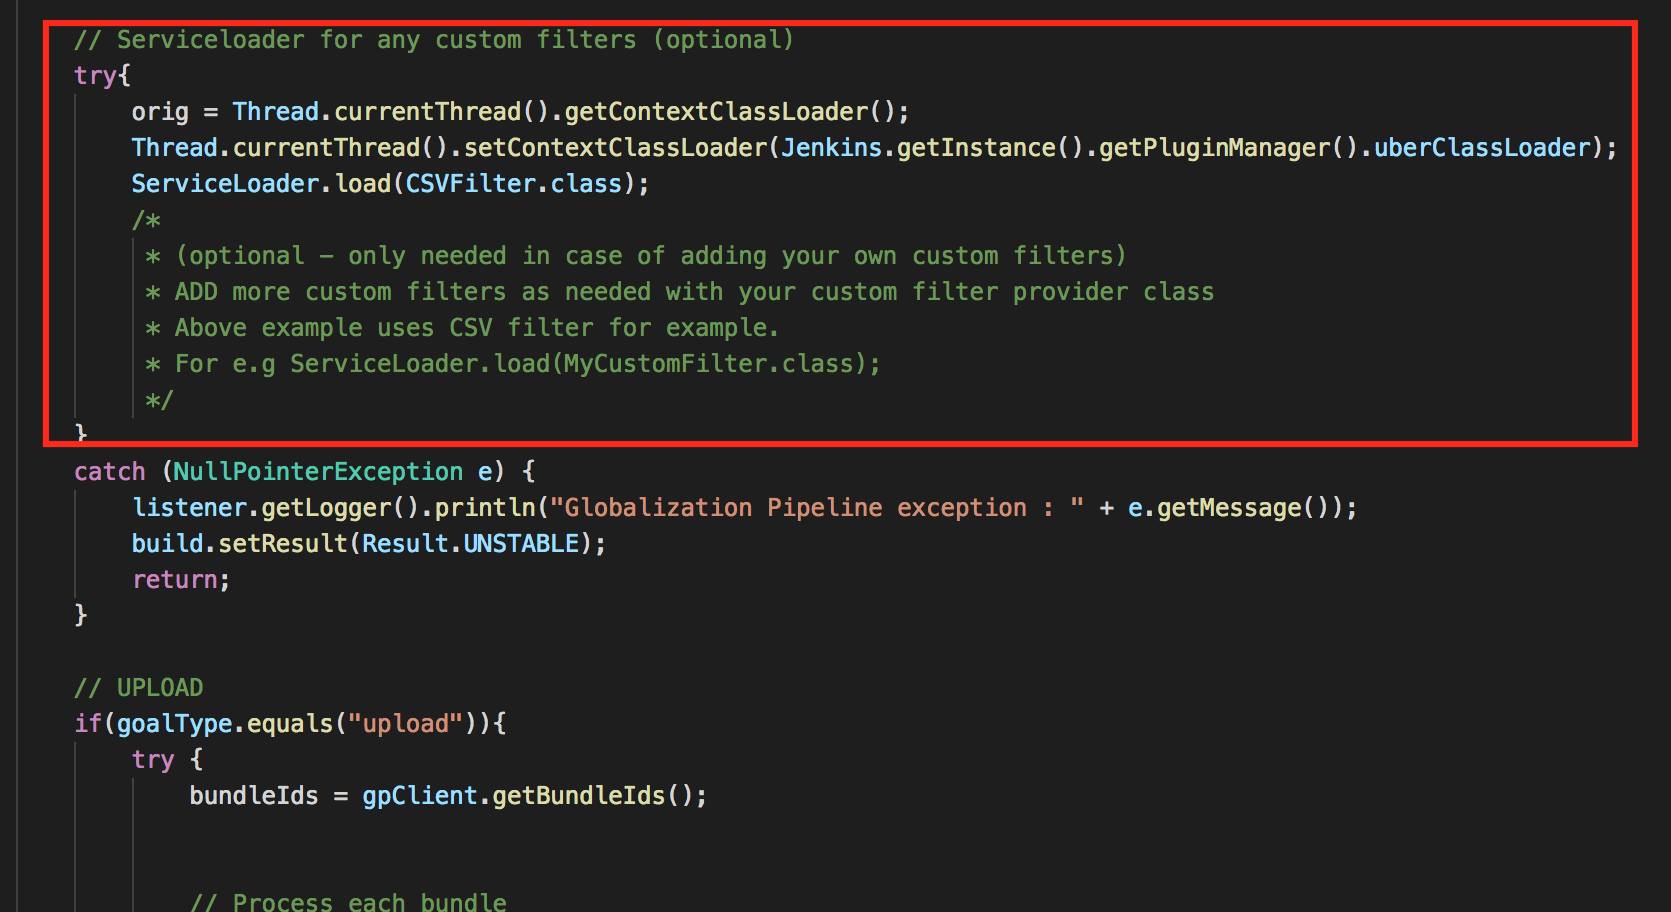
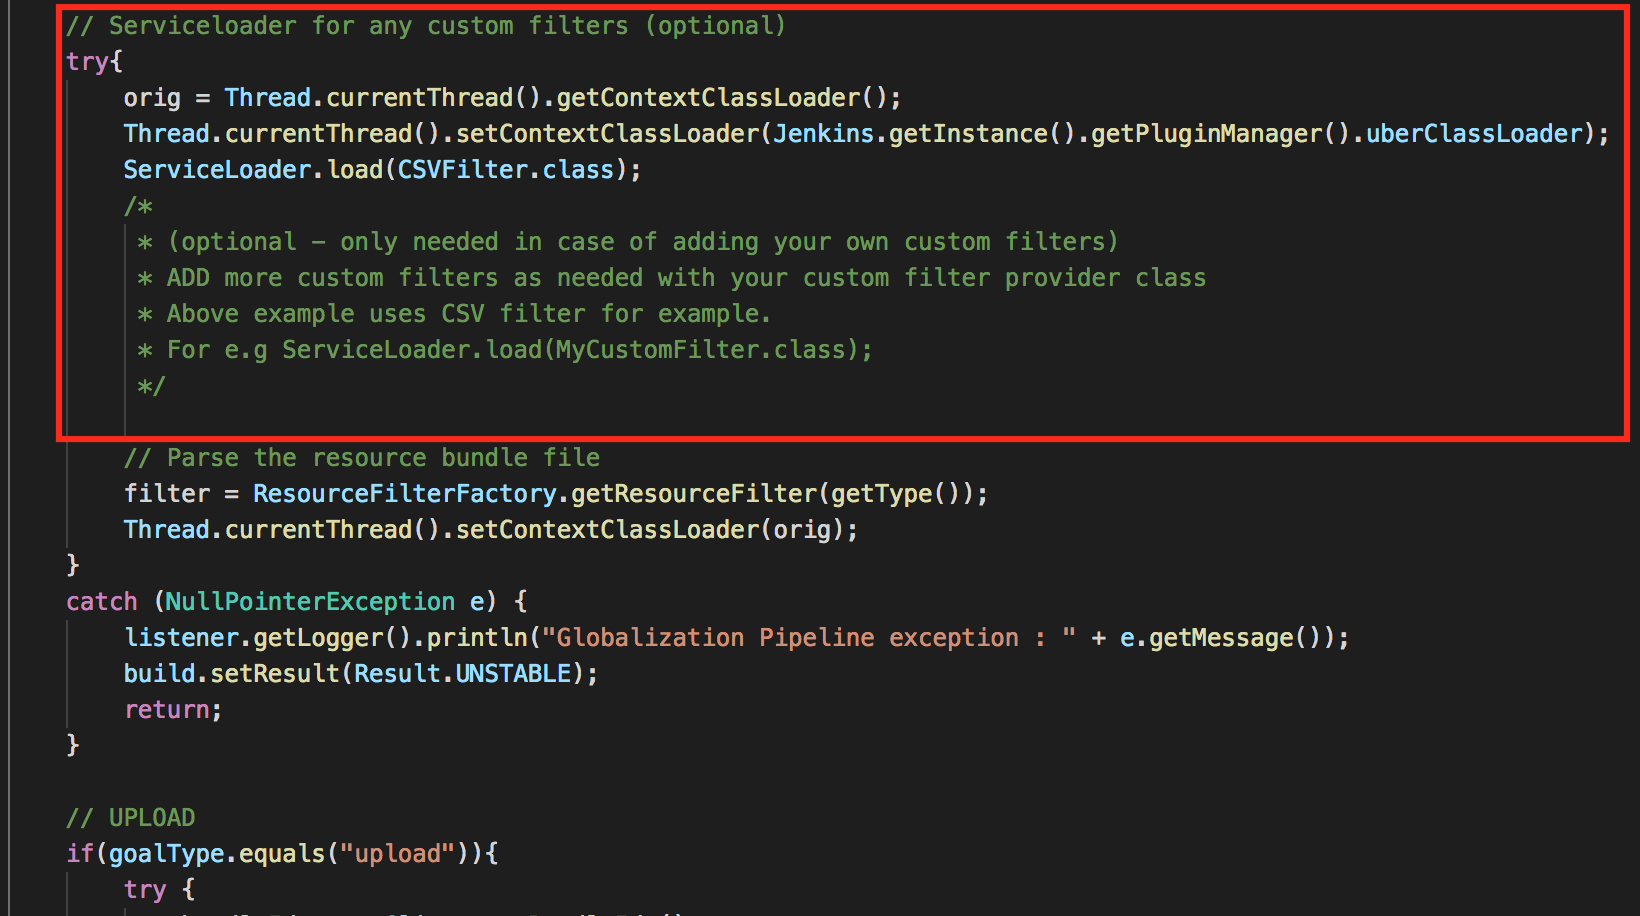
putting filter out of upload goal

Changed region(s): [[0.0, 0.0, 0.9951, 1.0], [0.6841, 0.6754, 0.8396, 0.7061], [0.653, 0.5526, 0.8085, 0.5833]]

diff --git a/src/main/java/org/jenkinsci/plugins/gpjenkins/GlobalizationPipelineBuilder.java b/src/main/java/org/jenkinsci/plugins/gpjenkins/GlobalizationPipelineBuilder.java
@@ -598,7 +598,6 @@ public class GlobalizationPipelineBuilder extends Builder implements SimpleBuild
 
 		// This also shows how you can consult the global configuration of the builder
 
-		ClassLoader orig;
 		listener.getLogger().println("*************** IBM GLOBALIZATION PIPELINE BUILDSTEP starting... ***************");
 
 		// CHECKING NULLS
@@ -658,6 +657,8 @@ public class GlobalizationPipelineBuilder extends Builder implements SimpleBuild
 		FilePath[] files = null; // files from baseDir after applying include/exclude rules
 		Set<String> bundleIds;// = new HashSet<String>();
 		Map<String, String> langMappingMap = new HashMap<String, String>();
+		ResourceFilter filter;
+		ClassLoader orig;
 
 
 		// CHECKING CREDENTIALS
@@ -782,6 +783,10 @@ public class GlobalizationPipelineBuilder extends Builder implements SimpleBuild
 			 * Above example uses CSV filter for example.
 			 * For e.g ServiceLoader.load(MyCustomFilter.class);
 			 */
+			
+			// Parse the resource bundle file
+			filter = ResourceFilterFactory.getResourceFilter(getType());
+			Thread.currentThread().setContextClassLoader(orig); 
 		}
 		catch (NullPointerException e) {
 			listener.getLogger().println("Globalization Pipeline exception : " + e.getMessage());
@@ -819,11 +824,6 @@ public class GlobalizationPipelineBuilder extends Builder implements SimpleBuild
 						listener.getLogger().println("bundle:" + bundleId + " does not exist, creating a new bundle.");
 						createNew = true;
 					}
-					
-					
-					// Parse the resource bundle file
-					ResourceFilter filter = ResourceFilterFactory.getResourceFilter(getType());
-					Thread.currentThread().setContextClassLoader(orig); 
 					
 					
 					if (filter == null) {
